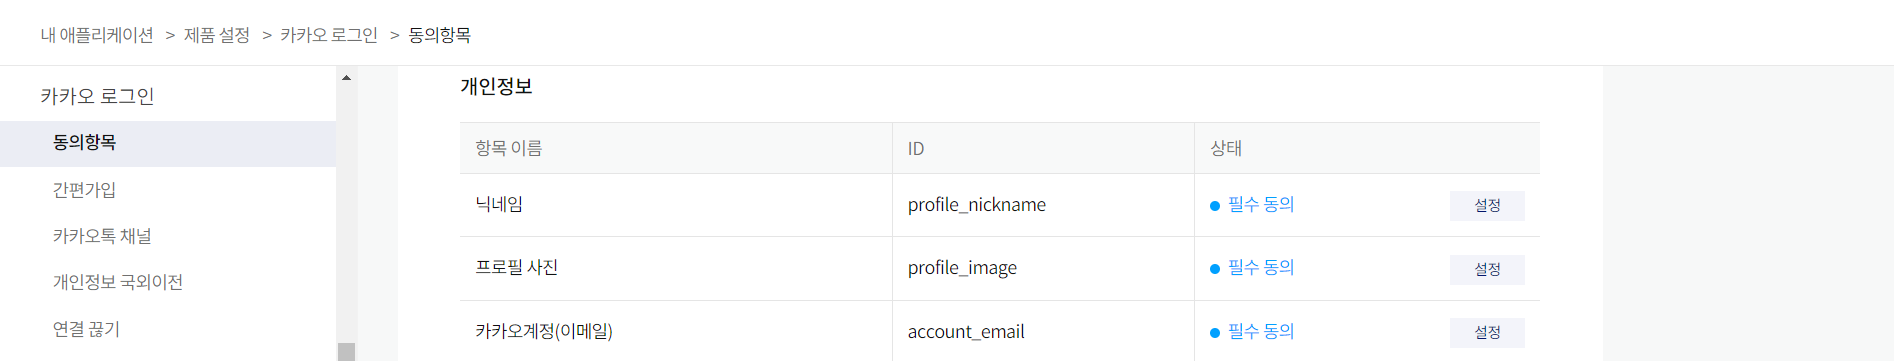
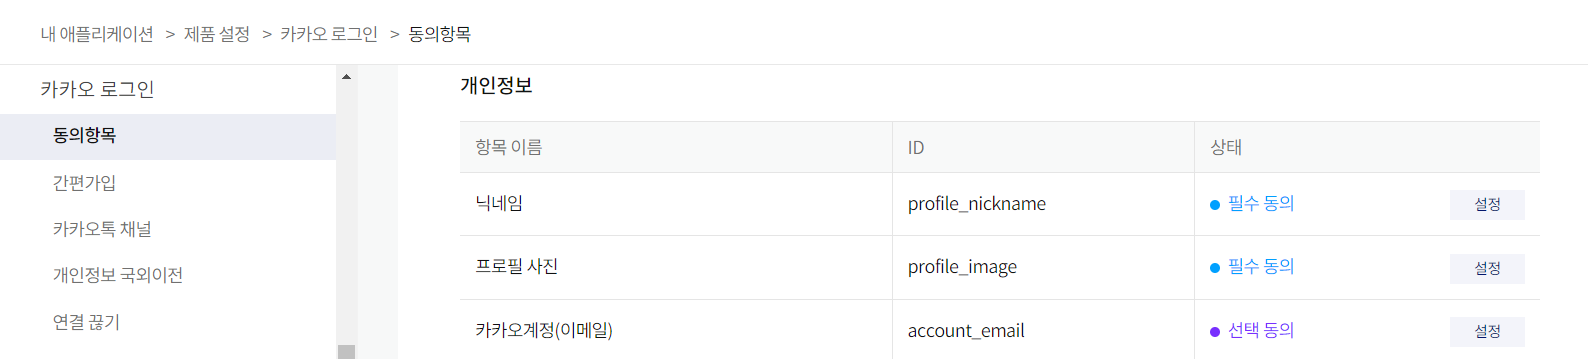
Kakao Talk Auth

diff --git a/frontend/src/routes/KakaoConfirm.tsx b/frontend/src/routes/KakaoConfirm.tsx
@@ -1,0 +1,43 @@
+import { Heading, VStack, Text, Spinner, useToast } from "@chakra-ui/react";
+import { useEffect } from "react";
+import { useLocation, useNavigate } from "react-router-dom";
+import { kakaoLogIn } from "../api";
+import { useQueryClient } from "@tanstack/react-query";
+
+export default function GithubConfirm() {
+  const { search } = useLocation();
+  const toast = useToast();
+  const queryClient = useQueryClient();
+  const navigate = useNavigate();
+  const confirmLogin = async () => {
+    const params = new URLSearchParams(search);
+    const code = params.get("code");
+    if (code) {
+      console.log(code);
+      return;
+      const status = await kakaoLogIn(code);
+      if (status === 200) {
+        toast({
+          status: "success",
+          title: "Welcome!",
+          description: "Happy to have you back!",
+        });
+        queryClient.refetchQueries({
+          queryKey: ["me"],
+          exact: true,
+        });
+        navigate("/");
+      }
+    }
+  };
+  useEffect(() => {
+    confirmLogin();
+  }, []);
+  return (
+    <VStack justifyContent={"center"} mt={40}>
+      <Heading>Processing log in...</Heading>
+      <Text>Don't go anywhere.</Text>
+      <Spinner size={"lg"} />
+    </VStack>
+  );
+}

diff --git a/frontend/src/components/SocialLogin.tsx b/frontend/src/components/SocialLogin.tsx
@@ -2,6 +2,12 @@ import { HStack, Divider, VStack, Button, Box, Text } from "@chakra-ui/react";
 import { FaGithub, FaComment } from "react-icons/fa";
 
 export default function SocialLogin() {
+  const kakaoParams = {
+    response_type: "code",
+    client_id: "564d95aa68dfb025d4f3726ecaac2764",
+    redirect_uri: "http://127.0.0.1:3000/social/kakao",
+  };
+  const params = new URLSearchParams(kakaoParams).toString();
   return (
     <Box mb="4">
       <HStack my={8}>
@@ -20,7 +26,13 @@ export default function SocialLogin() {
         >
           Continue with Github
         </Button>
-        <Button w="100%" leftIcon={<FaComment />} colorScheme="yellow">
+        <Button
+          as={"a"}
+          href={`https://kauth.kakao.com/oauth/authorize?${params}`}
+          w="100%"
+          leftIcon={<FaComment />}
+          colorScheme="yellow"
+        >
           Continue with Kakao
         </Button>
       </VStack>

diff --git a/frontend/src/router.tsx b/frontend/src/router.tsx
@@ -4,6 +4,7 @@ import Home from "./routes/Home";
 import NotFound from "./routes/NotFound";
 import RoomDetail from "./routes/RoomDetail";
 import GithubConfirm from "./routes/GithubConfirm";
+import KakaoConfirm from "./routes/KakaoConfirm";
 const router = createBrowserRouter([
   {
     path: "/",
@@ -24,6 +25,10 @@ const router = createBrowserRouter([
           {
             path: "github",
             element: <GithubConfirm />,
+          },
+          {
+            path: "kakao",
+            element: <KakaoConfirm />,
           },
         ],
       },

diff --git a/frontend/src/api.ts b/frontend/src/api.ts
@@ -46,3 +46,16 @@ export const githubLogIn = (code: string | null) =>
       }
     )
     .then((response) => response.status);
+
+export const kakaoLogIn = (code: string | null) =>
+  instance
+    .post(
+      `/users/kakao`,
+      { code },
+      {
+        headers: {
+          "X-CSRFToken": Cookie.get("csrftoken") || "",
+        },
+      }
+    )
+    .then((response) => response.status);

diff --git a/frontend/README.md b/frontend/README.md
@@ -63,6 +63,8 @@
    4.7 [Emails](#emails)
    <br>
    4.8 [Kakao Talk App](#kakao-talk-app)
+   <br>
+   4.9 [Kakao Talk Auth](#kakao-talk-auth)
 
 <br>
 
@@ -3364,8 +3366,203 @@
 
     ![Alt text](./images/kakao_setting1.png)
 
-- **카카오 로그인** 밑에 있는 **동의항목**에서 닉네임, 프로필 사진, 카카오계정(이메일) 상태를 **필수 동의**로 설정한다.
+- **카카오 로그인** 밑에 있는 **동의항목**에서 닉네임과 프로필 사진 상태를 **필수 동의**로 설정하고, 카카오계정(이메일) 상태는 **선택 동의**로 설정한다.
 
   ![Alt text](./images/kakao_setting2.png)
 
   > 카카오계정(이메일)은 **비즈 앱**으로 전환 후 상태를 전환할 수 있다.
+
+<br>
+
+### Kakao Talk Auth
+
+- 카카오에서 인가 코드를 받아보자.
+
+  - [kakaologin/rest-api](https://developers.kakao.com/docs/latest/ko/kakaologin/rest-api#request-code)
+
+- `routes`에 `KakoConfirm.tsx`라는 `route`를 만들고 `social path`의 `children`에 추가한다.
+
+  > `KakaoConfirm.tsx`에는 `GithubConfirm.tsx`의 모든 코드를 복붙해준다.
+
+  - 그리고 `kakaoLogIn api`도 `githubLogIn`을 복사하고 이름만 바꿔준다.
+
+    - `frontend/src/router.tsx`
+
+      ```tsx
+      import { createBrowserRouter } from "react-router-dom";
+      import Root from "./components/Root";
+      import Home from "./routes/Home";
+      import NotFound from "./routes/NotFound";
+      import RoomDetail from "./routes/RoomDetail";
+      import GithubConfirm from "./routes/GithubConfirm";
+      import KakaoConfirm from "./routes/KakaoConfirm"; // import
+      const router = createBrowserRouter([
+        {
+          path: "/",
+          element: <Root />,
+          errorElement: <NotFound />,
+          children: [
+            {
+              path: "",
+              element: <Home />,
+            },
+            {
+              path: "rooms/:roomPk",
+              element: <RoomDetail />,
+            },
+            {
+              path: "social",
+              children: [
+                {
+                  path: "github",
+                  element: <GithubConfirm />,
+                },
+                {
+                  path: "kakao", // 추가
+                  element: <KakaoConfirm />, // 추가
+                },
+              ],
+            },
+          ],
+        },
+      ]);
+
+      export default router;
+      ```
+
+    - `frontend/src/api.ts`
+
+      ```ts
+      export const kakaoLogIn = (code: string | null) =>
+        instance
+          .post(
+            `/users/kakao`,
+            { code },
+            {
+              headers: {
+                "X-CSRFToken": Cookie.get("csrftoken") || "",
+              },
+            }
+          )
+          .then((response) => response.status);
+      ```
+
+- `SocialLogin.tsx`에서 카카오 로그인 부분을 고친다.
+
+  - `frontend/src/components/SocialLogin.tsx`
+
+    ```tsx
+    import {
+      HStack,
+      Divider,
+      VStack,
+      Button,
+      Box,
+      Text,
+    } from "@chakra-ui/react";
+    import { FaGithub, FaComment } from "react-icons/fa";
+
+    export default function SocialLogin() {
+      const kakaoParams = {
+        response_type: "code",
+        client_id: "564d95aa68dfb025d4f3726ecaac2764",
+        redirect_uri: "http://127.0.0.1:3000/social/kakao",
+      };
+      const params = new URLSearchParams(kakaoParams).toString();
+      return (
+        <Box mb="4">
+          <HStack my={8}>
+            <Divider />
+            <Text
+              textTransform={"uppercase"}
+              color="gray"
+              fontSize={"xs"}
+              as="b"
+            >
+              Or
+            </Text>
+            <Divider />
+          </HStack>
+          <VStack>
+            <Button
+              as="a"
+              href="https://github.com/login/oauth/authorize?client_id=10136d2489a8c313cbe4&scope=read:user,user:email"
+              w="100%"
+              leftIcon={<FaGithub />}
+            >
+              Continue with Github
+            </Button>
+            <Button
+              as={"a"}
+              href={`https://kauth.kakao.com/oauth/authorize?${params}`}
+              w="100%"
+              leftIcon={<FaComment />}
+              colorScheme="yellow"
+            >
+              Continue with Kakao
+            </Button>
+          </VStack>
+        </Box>
+      );
+    }
+    ```
+
+    - `kakoParams`에 필수 요소들을 넣고, 이를 `URLSearchParams`를 사용해 하나의 `string`으로 만든다.
+
+      - `params`를 `href`에 넣을 수 있다.
+
+- `frontend/src/routes/KakoConfirm.tsx`
+
+  ```tsx
+  import { Heading, VStack, Text, Spinner, useToast } from "@chakra-ui/react";
+  import { useEffect } from "react";
+  import { useLocation, useNavigate } from "react-router-dom";
+  import { kakaoLogIn } from "../api";
+  import { useQueryClient } from "@tanstack/react-query";
+
+  export default function GithubConfirm() {
+    const { search } = useLocation();
+    const toast = useToast();
+    const queryClient = useQueryClient();
+    const navigate = useNavigate();
+    const confirmLogin = async () => {
+      const params = new URLSearchParams(search);
+      const code = params.get("code");
+      if (code) {
+        console.log(code);
+        return; // code 출력 후 리턴
+        const status = await kakaoLogIn(code);
+        if (status === 200) {
+          toast({
+            status: "success",
+            title: "Welcome!",
+            description: "Happy to have you back!",
+          });
+          queryClient.refetchQueries({
+            queryKey: ["me"],
+            exact: true,
+          });
+          navigate("/");
+        }
+      }
+    };
+    useEffect(() => {
+      confirmLogin();
+    }, []);
+    return (
+      <VStack justifyContent={"center"} mt={40}>
+        <Heading>Processing log in...</Heading>
+        <Text>Don't go anywhere.</Text>
+        <Spinner size={"lg"} />
+      </VStack>
+    );
+  }
+  ```
+
+  > `GithubConfirm.tsx`를 전부 복붙 하고 `function`이름과 `api` 이름만 바꿈
+
+  - `code`만 출력하고 리턴해보면
+
+    - `5_808JTuzyvXaqxi8agzTjqMoaN-X5785j405dSYbpviSFk-bgo7xLRMv8QKPXMXAAABjYlQkWqvm_uHqQwxKA`
+
+      - `code`가 잘 출력된다.
